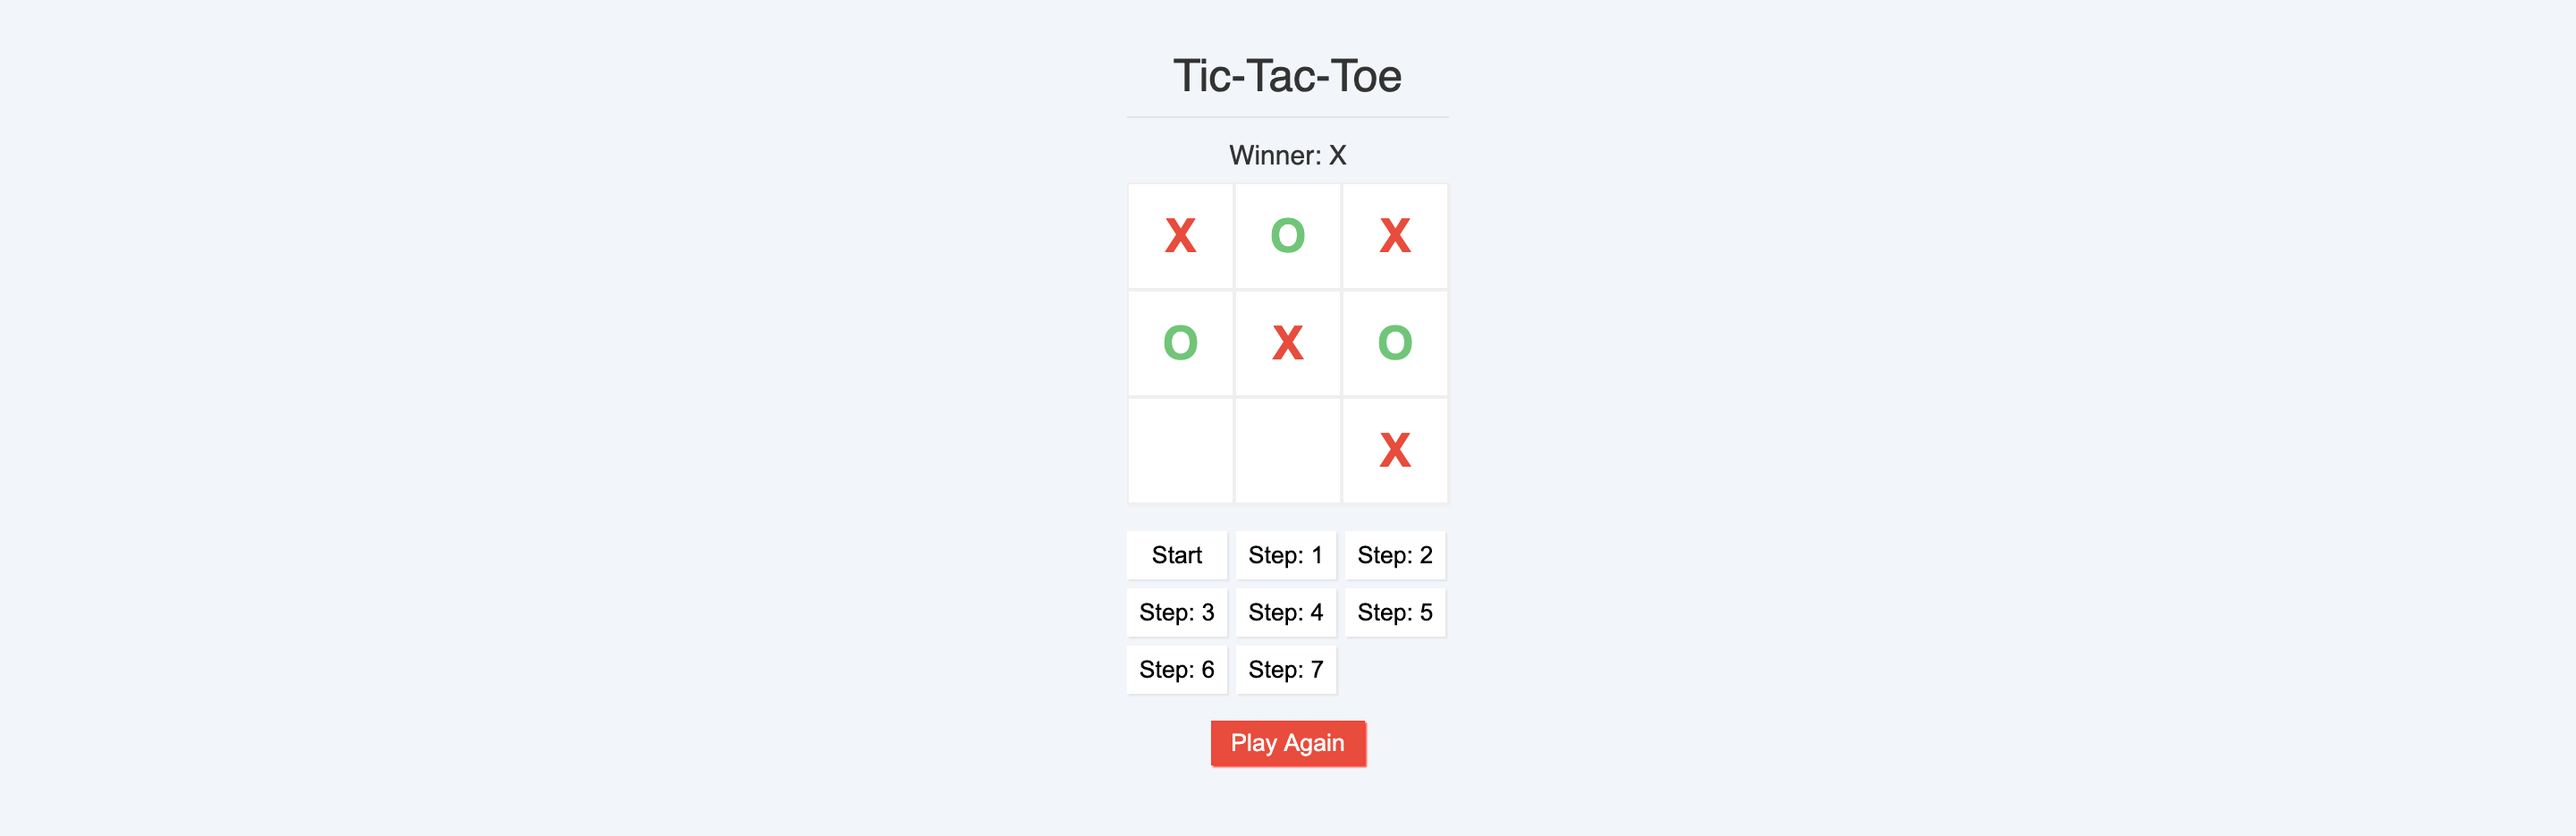
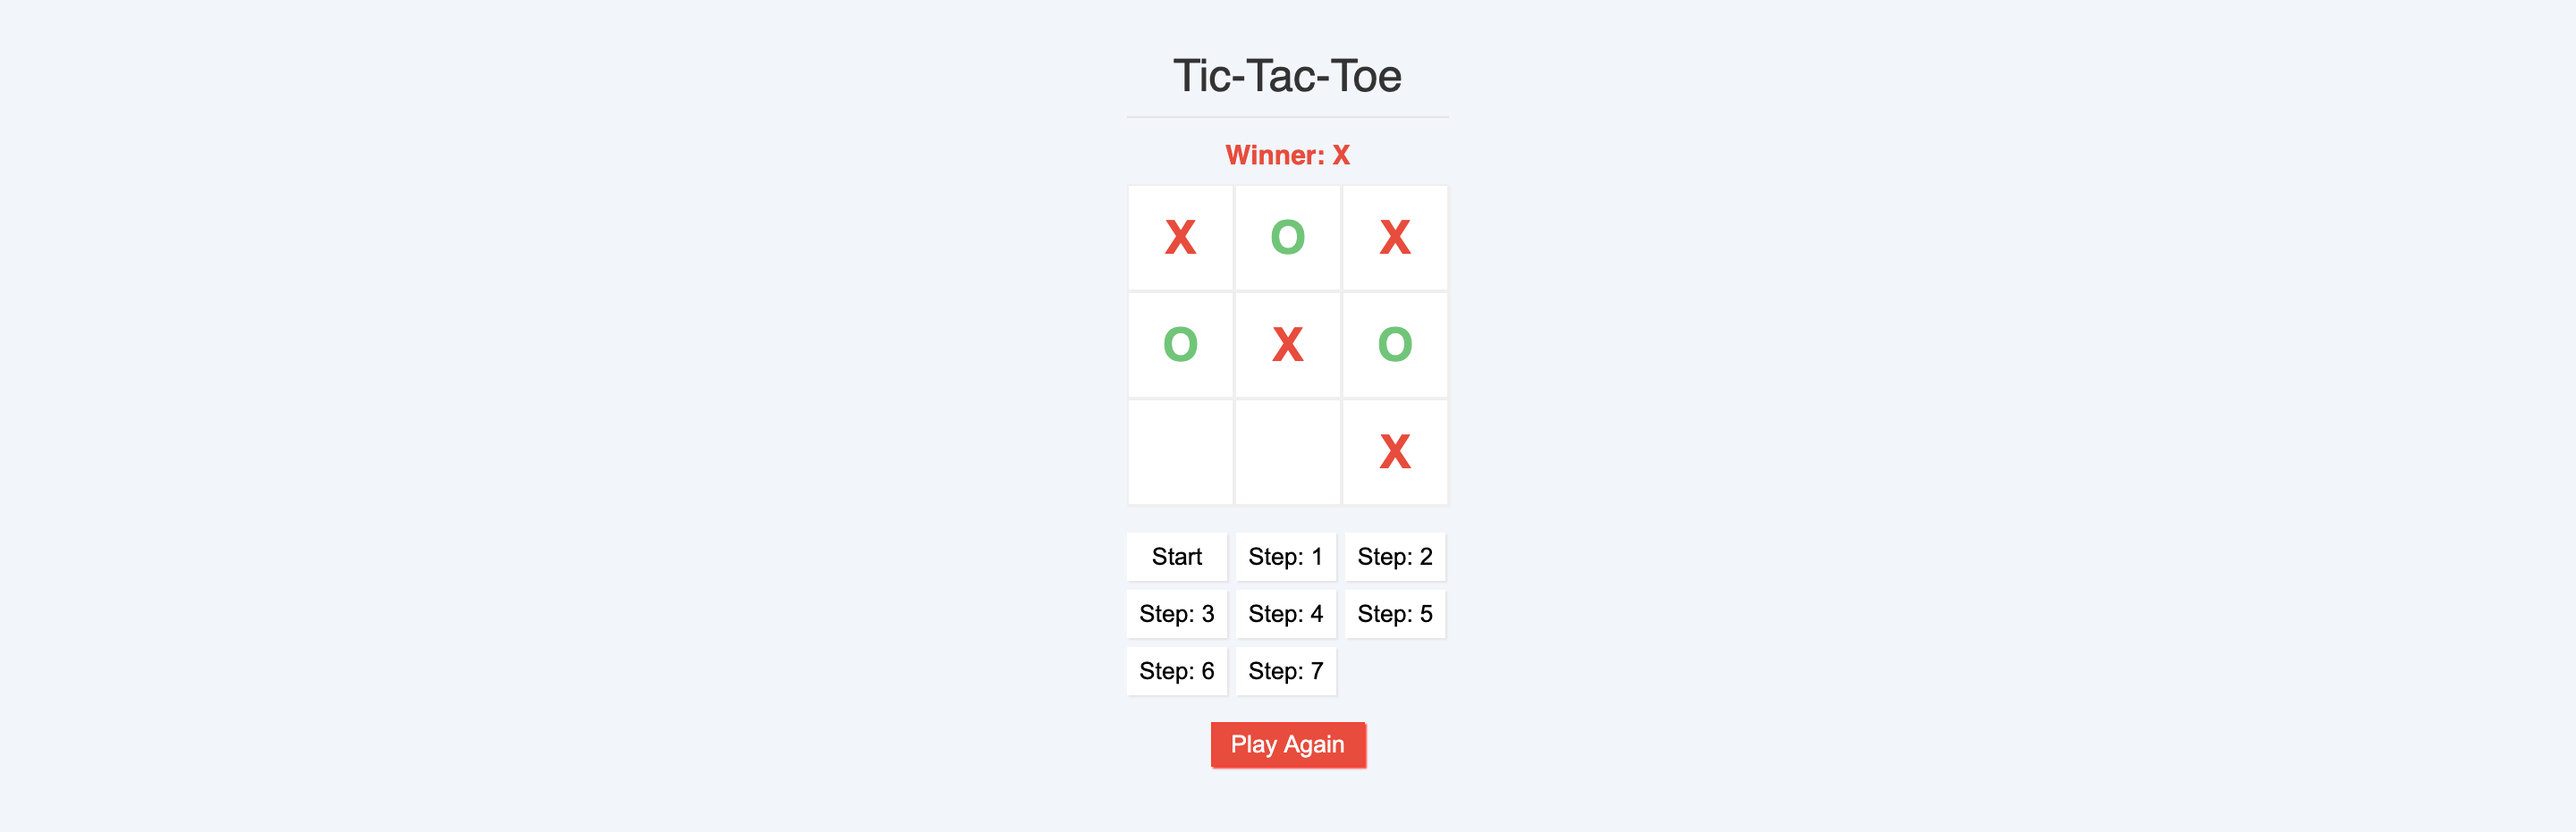
bugfix

diff --git a/src/app/scenes/Game/index.js b/src/app/scenes/Game/index.js
@@ -4,6 +4,7 @@ import React, { Component } from 'react';
 // app
 import Board from './components/Board';
 import i18n from '../../../assets/i18n/i18n';
+import classNames from 'classnames/bind';
 
 class Game extends Component {
 	constructor(props) {
@@ -22,13 +23,19 @@ class Game extends Component {
 		const current = history[stepNumber];
 		const winner = Game.calculateWinner(current.squares);
 
+		// player status
+		const playerStatusClass = classNames({
+			'sc-turn-x': winner === i18n.t('X'),
+			'sc-turn-0': winner === i18n.t('O')
+		});
+
 		// reset board
 		const resetBoard = (winner) ? (
 			<button type="button" onClick={this.resetGame}>{i18n.t('PLAY_AGAIN')}</button>
 		) : null;
 
 		// no winner
-		let status = `${i18n.t('WINNER')}: ${winner}`;
+		let status = (<span className={playerStatusClass}>{i18n.t('WINNER')}: {winner}</span>);
 		if (!winner) {
 			status = (xTurn) ?
 				(<span className="sc-turn-x">{i18n.t('PLAYER_TURN_X')}</span>) :
@@ -55,7 +62,7 @@ class Game extends Component {
 					<h2>Tic-Tac-Toe</h2>
 
 					{/* Status */}
-					<p className="cd-status">{status}</p>
+					<div className="cd-status">{status}</div>
 
 					{/* Board */}
 					<Board

diff --git a/src/app/scenes/Game/components/Board/components/Square/index.js b/src/app/scenes/Game/components/Board/components/Square/index.js
@@ -3,7 +3,7 @@ import React from 'react';
 
 // app
 import classNames from 'classnames/bind';
-import i18n from '../../../../../../../assets/i18n/i18n'
+import i18n from '../../../../../../../assets/i18n/i18n';
 
 function Square(props) {
 	const buttonClass = classNames({
